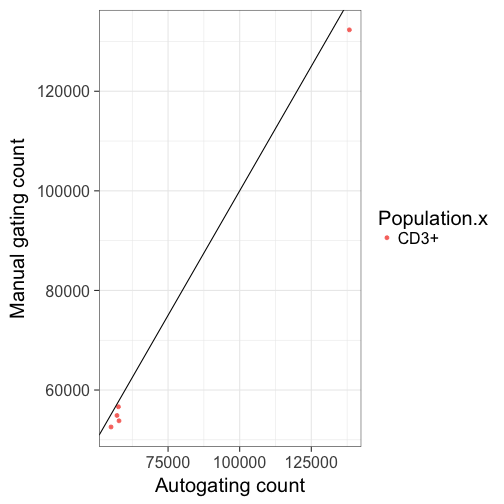
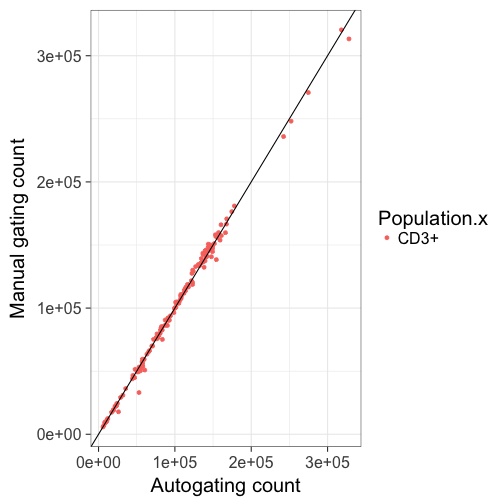
testing secondary tailgate for Tcells

diff --git a/report/rep1.md b/report/rep1.md
@@ -80,16 +80,16 @@ class: esmall-table
 ![plot of chunk unnamed-chunk-1](rep1-figure/unnamed-chunk-1-1.png)
 
 
-| N_SAMPS| N_DATA|    RHO|   BETA| BETA_SE|     R2|  ICC_1|
-|-------:|------:|------:|------:|-------:|------:|------:|
-|       5|     75| 0.9356| 0.9228|  0.0102| 0.9911| 0.9918|
+| N_SAMPS| N_DATA|    RHO|  BETA| BETA_SE|     R2|  ICC_1|
+|-------:|------:|------:|-----:|-------:|------:|------:|
+|     151|   2265| 0.9846| 1.015|  0.0015| 0.9949| 0.9972|
 ***
 ![plot of chunk unnamed-chunk-3](rep1-figure/unnamed-chunk-3-1.png)
 
 
-| N_SAMPS| N_DATA|    RHO|   BETA| BETA_SE|     R2|  ICC_1|
-|-------:|------:|------:|------:|-------:|------:|------:|
-|       5|     75| 0.8775| 0.8928|   0.043| 0.8551| 0.9251|
+| N_SAMPS| N_DATA|   RHO|   BETA| BETA_SE|     R2| ICC_1|
+|-------:|------:|-----:|------:|-------:|------:|-----:|
+|     151|   2265| 0.979| 0.9861|  0.0031| 0.9782| 0.989|
 
 Lymphocytes (SSC-A v FSC-A)
 ========================================================
@@ -98,16 +98,16 @@ class: esmall-table
 ![plot of chunk unnamed-chunk-5](rep1-figure/unnamed-chunk-5-1.png)
 
 
-| N_SAMPS| N_DATA| RHO|   BETA| BETA_SE|     R2|  ICC_1|
-|-------:|------:|---:|------:|-------:|------:|------:|
-|       5|      5| 0.9| 0.9475|  0.0612| 0.9876| 0.9692|
+| N_SAMPS| N_DATA|    RHO|  BETA| BETA_SE|     R2|  ICC_1|
+|-------:|------:|------:|-----:|-------:|------:|------:|
+|     151|    151| 0.9885| 1.014|  0.0078| 0.9912| 0.9953|
 ***
 ![plot of chunk unnamed-chunk-7](rep1-figure/unnamed-chunk-7-1.png)
 
 
-| N_SAMPS| N_DATA| RHO|  BETA| BETA_SE|    R2|  ICC_1|
-|-------:|------:|---:|-----:|-------:|-----:|------:|
-|       5|      5|   1| 1.024|  0.0191| 0.999| 0.9843|
+| N_SAMPS| N_DATA|    RHO|  BETA| BETA_SE|     R2|  ICC_1|
+|-------:|------:|------:|-----:|-------:|------:|------:|
+|     151|    151| 0.9968| 1.038|   0.005| 0.9966| 0.9972|
 
 Single Cells (FSC-H v FSC-W)
 ========================================================
@@ -116,16 +116,16 @@ class: esmall-table
 ![plot of chunk unnamed-chunk-9](rep1-figure/unnamed-chunk-9-1.png)
 
 
-| N_SAMPS| N_DATA| RHO|   BETA| BETA_SE|     R2|  ICC_1|
-|-------:|------:|---:|------:|-------:|------:|------:|
-|       5|      5| 0.9| 0.9562|  0.0625| 0.9873| 0.9752|
+| N_SAMPS| N_DATA|    RHO|  BETA| BETA_SE|     R2|  ICC_1|
+|-------:|------:|------:|-----:|-------:|------:|------:|
+|     151|    151| 0.9822| 1.018|  0.0087| 0.9892| 0.9935|
 ***
 ![plot of chunk unnamed-chunk-11](rep1-figure/unnamed-chunk-11-1.png)
 
 
-| N_SAMPS| N_DATA| RHO|   BETA| BETA_SE|     R2|   ICC_1|
-|-------:|------:|---:|------:|-------:|------:|-------:|
-|       5|      5| 0.7| 0.6352|  0.2409| 0.6985| -0.4447|
+| N_SAMPS| N_DATA|    RHO|  BETA| BETA_SE|     R2|   ICC_1|
+|-------:|------:|------:|-----:|-------:|------:|-------:|
+|     151|    151| 0.0585| 0.032|  0.0225| 0.0134| -0.0278|
 
 
 Live cells (PE-)
@@ -135,16 +135,16 @@ class: esmall-table
 ![plot of chunk unnamed-chunk-13](rep1-figure/unnamed-chunk-13-1.png)
 
 
-| N_SAMPS| N_DATA| RHO|   BETA| BETA_SE|     R2|  ICC_1|
-|-------:|------:|---:|------:|-------:|------:|------:|
-|       5|      5| 0.9| 0.9544|  0.0626| 0.9873| 0.9748|
+| N_SAMPS| N_DATA|    RHO|  BETA| BETA_SE|     R2|  ICC_1|
+|-------:|------:|------:|-----:|-------:|------:|------:|
+|     151|    151| 0.9821| 1.019|  0.0088| 0.9889| 0.9933|
 ***
 ![plot of chunk unnamed-chunk-15](rep1-figure/unnamed-chunk-15-1.png)
 
 
-| N_SAMPS| N_DATA| RHO|  BETA| BETA_SE|     R2|  ICC_1|
-|-------:|------:|---:|-----:|-------:|------:|------:|
-|       5|      5| 0.9| 1.577|  0.2373| 0.9364| 0.8774|
+| N_SAMPS| N_DATA|    RHO|  BETA| BETA_SE|     R2|  ICC_1|
+|-------:|------:|------:|-----:|-------:|------:|------:|
+|     151|    151| 0.6801| 1.064|  0.0931| 0.4672| 0.6227|
 
 
 Tcells (CD3+ CD19-)
@@ -154,16 +154,16 @@ class: esmall-table
 ![plot of chunk unnamed-chunk-17](rep1-figure/unnamed-chunk-17-1.png)
 
 
-| N_SAMPS| N_DATA| RHO|   BETA| BETA_SE|     R2|  ICC_1|
-|-------:|------:|---:|------:|-------:|------:|------:|
-|       5|      5| 0.7| 0.9572|   0.017| 0.9991| 0.9949|
+| N_SAMPS| N_DATA|    RHO|   BETA| BETA_SE|     R2|  ICC_1|
+|-------:|------:|------:|------:|-------:|------:|------:|
+|     151|    151| 0.9958| 0.9979|  0.0054| 0.9956| 0.9978|
 ***
 ![plot of chunk unnamed-chunk-19](rep1-figure/unnamed-chunk-19-1.png)
 
 
-| N_SAMPS| N_DATA| RHO|   BETA| BETA_SE|     R2|  ICC_1|
-|-------:|------:|---:|------:|-------:|------:|------:|
-|       5|      5| 0.9| 0.9689|   0.097| 0.9708| 0.9761|
+| N_SAMPS| N_DATA|    RHO|   BETA| BETA_SE|     R2|  ICC_1|
+|-------:|------:|------:|------:|-------:|------:|------:|
+|     151|    151| 0.9784| 0.9059|  0.0133| 0.9687| 0.9711|
 
 Helper Tcells-CD4+
 ========================================================
@@ -172,16 +172,16 @@ class: esmall-table
 ![plot of chunk unnamed-chunk-21](rep1-figure/unnamed-chunk-21-1.png)
 
 
-| N_SAMPS| N_DATA| RHO|   BETA| BETA_SE|    R2| ICC_1|
-|-------:|------:|---:|------:|-------:|-----:|-----:|
-|       5|      5|   1| 0.9861|  0.0184| 0.999| 0.999|
+| N_SAMPS| N_DATA|    RHO|  BETA| BETA_SE|    R2|  ICC_1|
+|-------:|------:|------:|-----:|-------:|-----:|------:|
+|     151|    151| 0.9891| 1.015|  0.0113| 0.982| 0.9897|
 ***
 ![plot of chunk unnamed-chunk-23](rep1-figure/unnamed-chunk-23-1.png)
 
 
-| N_SAMPS| N_DATA| RHO|   BETA| BETA_SE|     R2|  ICC_1|
-|-------:|------:|---:|------:|-------:|------:|------:|
-|       5|      5| 0.9| 0.9839|  0.0329| 0.9967| 0.9916|
+| N_SAMPS| N_DATA|    RHO|   BETA| BETA_SE|     R2|  ICC_1|
+|-------:|------:|------:|------:|-------:|------:|------:|
+|     151|    151| 0.9709| 0.9173|  0.0215| 0.9241| 0.9539|
 
 central memory helper Tcells (CCR7+ CD45RA-)
 ========================================================
@@ -190,16 +190,16 @@ class: esmall-table
 ![plot of chunk unnamed-chunk-25](rep1-figure/unnamed-chunk-25-1.png)
 
 
-| N_SAMPS| N_DATA| RHO|   BETA| BETA_SE|     R2|  ICC_1|
-|-------:|------:|---:|------:|-------:|------:|------:|
-|       5|      5| 0.9| 0.6178|  0.0765| 0.9561| 0.8919|
+| N_SAMPS| N_DATA|    RHO|   BETA| BETA_SE|     R2|  ICC_1|
+|-------:|------:|------:|------:|-------:|------:|------:|
+|     151|    151| 0.9643| 0.9344|  0.0238| 0.9121| 0.9542|
 ***
 ![plot of chunk unnamed-chunk-27](rep1-figure/unnamed-chunk-27-1.png)
 
 
-| N_SAMPS| N_DATA| RHO|   BETA| BETA_SE|     R2| ICC_1|
-|-------:|------:|---:|------:|-------:|------:|-----:|
-|       5|      5| 0.4| 0.1211|  0.1594| 0.1613| 0.325|
+| N_SAMPS| N_DATA|   RHO|   BETA| BETA_SE|     R2|  ICC_1|
+|-------:|------:|-----:|------:|-------:|------:|------:|
+|     151|    151| 0.898| 0.7929|  0.0329| 0.7959| 0.8867|
 
 effector helper Tcells (CCR7- CD45RA+)
 ========================================================
@@ -208,16 +208,16 @@ class: esmall-table
 ![plot of chunk unnamed-chunk-29](rep1-figure/unnamed-chunk-29-1.png)
 
 
-| N_SAMPS| N_DATA|  RHO|   BETA| BETA_SE|     R2|   ICC_1|
-|-------:|------:|----:|------:|-------:|------:|-------:|
-|       5|      5| -0.5| -2.006|   2.643| 0.1611| -0.4093|
+| N_SAMPS| N_DATA|    RHO|   BETA| BETA_SE|     R2|  ICC_1|
+|-------:|------:|------:|------:|-------:|------:|------:|
+|     151|    151| 0.7592| 0.8319|  0.0386| 0.7567| 0.8635|
 ***
 ![plot of chunk unnamed-chunk-31](rep1-figure/unnamed-chunk-31-1.png)
 
 
-| N_SAMPS| N_DATA|  RHO|   BETA| BETA_SE|     R2|  ICC_1|
-|-------:|------:|----:|------:|-------:|------:|------:|
-|       5|      5| -0.4| -3.512|    3.36| 0.2669| -0.278|
+| N_SAMPS| N_DATA|    RHO|   BETA| BETA_SE|   R2| ICC_1|
+|-------:|------:|------:|------:|-------:|----:|-----:|
+|     151|    151| 0.7198| 0.7991|  0.0695| 0.47| 0.661|
 
 effector memory helper Tcells (CCR7- CD45RA-)
 ========================================================
@@ -226,16 +226,16 @@ class: esmall-table
 ![plot of chunk unnamed-chunk-33](rep1-figure/unnamed-chunk-33-1.png)
 
 
-| N_SAMPS| N_DATA| RHO|  BETA| BETA_SE|     R2|  ICC_1|
-|-------:|------:|---:|-----:|-------:|------:|------:|
-|       5|      5| 0.3| 1.077|  0.4636| 0.6428| 0.6567|
+| N_SAMPS| N_DATA|    RHO|   BETA| BETA_SE|     R2|  ICC_1|
+|-------:|------:|------:|------:|-------:|------:|------:|
+|     151|    151| 0.8323| 0.7918|  0.0357| 0.7677| 0.8681|
 ***
 ![plot of chunk unnamed-chunk-35](rep1-figure/unnamed-chunk-35-1.png)
 
 
-| N_SAMPS| N_DATA|  RHO|   BETA| BETA_SE|     R2|   ICC_1|
-|-------:|------:|----:|------:|-------:|------:|-------:|
-|       5|      5| -0.1| -1.355|   1.266| 0.2761| -0.4523|
+| N_SAMPS| N_DATA|    RHO|   BETA| BETA_SE|     R2|  ICC_1|
+|-------:|------:|------:|------:|-------:|------:|------:|
+|     151|    151| 0.7935| 0.7057|  0.0462| 0.6104| 0.7736|
 
 naive helper Tcells (CCR7+ CD45RA+)
 ========================================================
@@ -244,16 +244,16 @@ class: esmall-table
 ![plot of chunk unnamed-chunk-37](rep1-figure/unnamed-chunk-37-1.png)
 
 
-| N_SAMPS| N_DATA| RHO|   BETA| BETA_SE|     R2|   ICC_1|
-|-------:|------:|---:|------:|-------:|------:|-------:|
-|       5|      5|   0| -1.448|   1.882| 0.1648| -0.1666|
+| N_SAMPS| N_DATA|    RHO|   BETA| BETA_SE|     R2|  ICC_1|
+|-------:|------:|------:|------:|-------:|------:|------:|
+|     151|    151| 0.9714| 0.9777|  0.0133| 0.9733| 0.9853|
 ***
 ![plot of chunk unnamed-chunk-39](rep1-figure/unnamed-chunk-39-1.png)
 
 
-| N_SAMPS| N_DATA|  RHO|    BETA| BETA_SE|     R2|   ICC_1|
-|-------:|------:|----:|-------:|-------:|------:|-------:|
-|       5|      5| -0.1| -0.3909|  0.4293| 0.2165| -0.4385|
+| N_SAMPS| N_DATA|    RHO|   BETA| BETA_SE|     R2| ICC_1|
+|-------:|------:|------:|------:|-------:|------:|-----:|
+|     151|    151| 0.9394| 0.7853|  0.0327| 0.7947| 0.885|
 
 
 cytotoxic Tcells-CD8+
@@ -263,16 +263,16 @@ class: esmall-table
 ![plot of chunk unnamed-chunk-41](rep1-figure/unnamed-chunk-41-1.png)
 
 
-| N_SAMPS| N_DATA| RHO|   BETA| BETA_SE|     R2|  ICC_1|
-|-------:|------:|---:|------:|-------:|------:|------:|
-|       5|      5|   1| 0.9957|  0.0433| 0.9944| 0.9841|
+| N_SAMPS| N_DATA|    RHO|   BETA| BETA_SE|     R2|  ICC_1|
+|-------:|------:|------:|------:|-------:|------:|------:|
+|     151|    151| 0.9485| 0.9527|  0.0259| 0.9011| 0.9493|
 ***
 ![plot of chunk unnamed-chunk-43](rep1-figure/unnamed-chunk-43-1.png)
 
 
-| N_SAMPS| N_DATA| RHO|   BETA| BETA_SE|     R2|  ICC_1|
-|-------:|------:|---:|------:|-------:|------:|------:|
-|       5|      5|   1| 0.9952|  0.0239| 0.9983| 0.9977|
+| N_SAMPS| N_DATA|    RHO|   BETA| BETA_SE|    R2|  ICC_1|
+|-------:|------:|------:|------:|-------:|-----:|------:|
+|     151|    151| 0.9343| 0.9315|  0.0324| 0.847| 0.9204|
 
 
 B cells (CD3- CD19+) 
@@ -282,16 +282,16 @@ class: esmall-table
 ![plot of chunk unnamed-chunk-45](rep1-figure/unnamed-chunk-45-1.png)
 
 
-| N_SAMPS| N_DATA| RHO|  BETA| BETA_SE|     R2|  ICC_1|
-|-------:|------:|---:|-----:|-------:|------:|------:|
-|       5|      5| 0.9| 1.244|  0.0588| 0.9933| 0.9618|
+| N_SAMPS| N_DATA|    RHO|   BETA| BETA_SE|     R2|  ICC_1|
+|-------:|------:|------:|------:|-------:|------:|------:|
+|     151|    151| 0.9377| 0.9254|  0.0296| 0.8679| 0.9262|
 ***
 ![plot of chunk unnamed-chunk-47](rep1-figure/unnamed-chunk-47-1.png)
 
 
-| N_SAMPS| N_DATA| RHO|  BETA| BETA_SE|     R2|  ICC_1|
-|-------:|------:|---:|-----:|-------:|------:|------:|
-|       5|      5| 0.9| 1.601|  0.0942| 0.9897| 0.8465|
+| N_SAMPS| N_DATA|    RHO|  BETA| BETA_SE|     R2|  ICC_1|
+|-------:|------:|------:|-----:|-------:|------:|------:|
+|     151|    151| 0.8809| 1.002|  0.0428| 0.7857| 0.8714|
 
 naive Bcells (CD27- IgD+)
 ========================================================
@@ -300,16 +300,16 @@ class: esmall-table
 ![plot of chunk unnamed-chunk-49](rep1-figure/unnamed-chunk-49-1.png)
 
 
-| N_SAMPS| N_DATA| RHO|  BETA| BETA_SE|     R2|  ICC_1|
-|-------:|------:|---:|-----:|-------:|------:|------:|
-|       5|      5|   1| 1.172|  0.0154| 0.9995| 0.9807|
+| N_SAMPS| N_DATA|   RHO|   BETA| BETA_SE|     R2|  ICC_1|
+|-------:|------:|-----:|------:|-------:|------:|------:|
+|     151|    151| 0.909| 0.8173|  0.0403| 0.7344| 0.8424|
 ***
 ![plot of chunk unnamed-chunk-51](rep1-figure/unnamed-chunk-51-1.png)
 
 
-| N_SAMPS| N_DATA| RHO|   BETA| BETA_SE|     R2|  ICC_1|
-|-------:|------:|---:|------:|-------:|------:|------:|
-|       5|      5|   1| 0.9748|  0.0498| 0.9922| 0.9955|
+| N_SAMPS| N_DATA|    RHO|   BETA| BETA_SE|     R2| ICC_1|
+|-------:|------:|------:|------:|-------:|------:|-----:|
+|     151|    151| 0.9128| 0.8498|  0.0367| 0.7828| 0.868|
 
 IgD- memory Bcells (CD27+)
 ========================================================
@@ -318,16 +318,16 @@ class: esmall-table
 ![plot of chunk unnamed-chunk-53](rep1-figure/unnamed-chunk-53-1.png)
 
 
-| N_SAMPS| N_DATA| RHO|  BETA| BETA_SE|     R2|  ICC_1|
-|-------:|------:|---:|-----:|-------:|------:|------:|
-|       5|      5|   1| 1.082|  0.0417| 0.9956| 0.9873|
+| N_SAMPS| N_DATA|   RHO| BETA| BETA_SE|     R2|  ICC_1|
+|-------:|------:|-----:|----:|-------:|------:|------:|
+|     151|    151| 0.823| 1.16|  0.0443| 0.8211| 0.8764|
 ***
 ![plot of chunk unnamed-chunk-55](rep1-figure/unnamed-chunk-55-1.png)
 
 
-| N_SAMPS| N_DATA| RHO|  BETA| BETA_SE|     R2|  ICC_1|
-|-------:|------:|---:|-----:|-------:|------:|------:|
-|       5|      5|   1| 1.186|  0.0353| 0.9973| 0.9855|
+| N_SAMPS| N_DATA|    RHO|   BETA| BETA_SE|     R2|  ICC_1|
+|-------:|------:|------:|------:|-------:|------:|------:|
+|     151|    151| 0.8057| 0.4608|  0.0449| 0.4145| 0.5765|
 
 IgD+ memory Bcells (CD27+)
 ========================================================
@@ -336,16 +336,16 @@ class: esmall-table
 ![plot of chunk unnamed-chunk-57](rep1-figure/unnamed-chunk-57-1.png)
 
 
-| N_SAMPS| N_DATA| RHO|  BETA| BETA_SE|     R2|  ICC_1|
-|-------:|------:|---:|-----:|-------:|------:|------:|
-|       5|      5|   1| 0.875|  0.0539| 0.9887| 0.9566|
+| N_SAMPS| N_DATA|    RHO|   BETA| BETA_SE|    R2| ICC_1|
+|-------:|------:|------:|------:|-------:|-----:|-----:|
+|     151|    151| 0.9212| 0.7128|  0.0113| 0.964| 0.925|
 ***
 ![plot of chunk unnamed-chunk-59](rep1-figure/unnamed-chunk-59-1.png)
 
 
-| N_SAMPS| N_DATA| RHO|   BETA| BETA_SE|     R2|  ICC_1|
-|-------:|------:|---:|------:|-------:|------:|------:|
-|       5|      5|   1| 0.8751|   0.045| 0.9921| 0.9694|
+| N_SAMPS| N_DATA|    RHO|   BETA| BETA_SE|     R2|  ICC_1|
+|-------:|------:|------:|------:|-------:|------:|------:|
+|     151|    151| 0.8844| 0.7361|  0.0349| 0.7487| 0.8423|
 
 
 Summary
